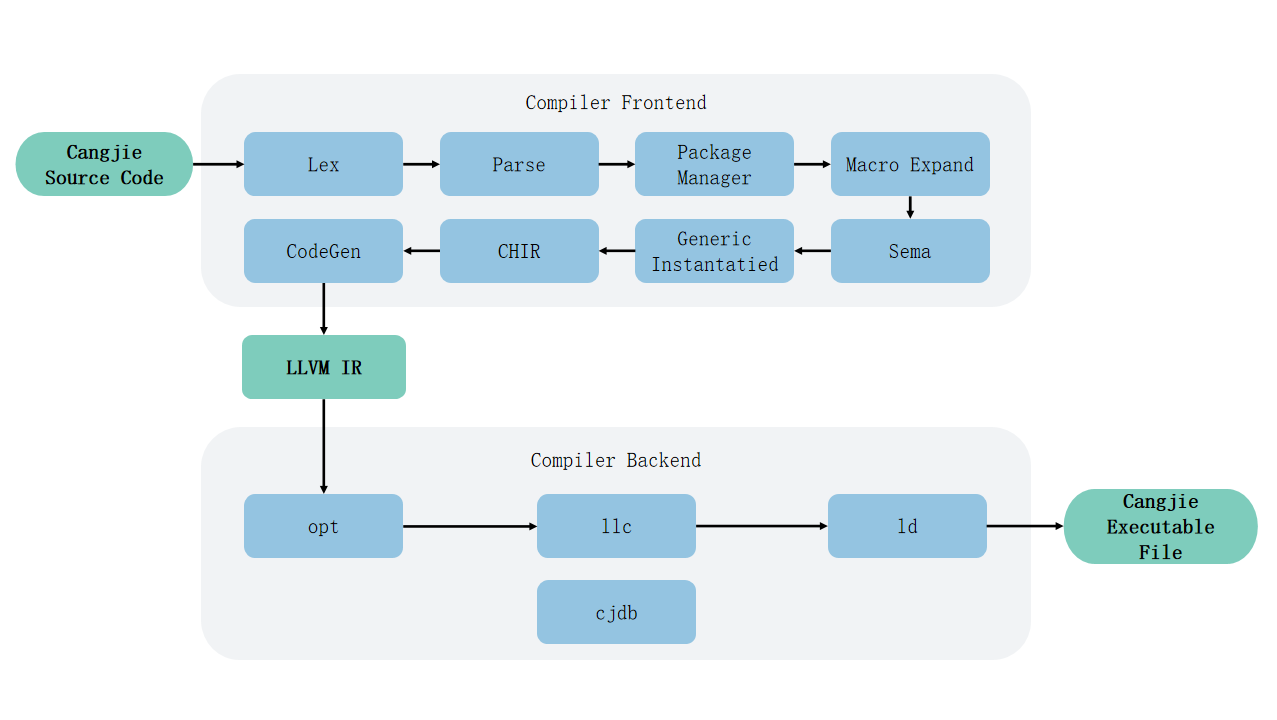
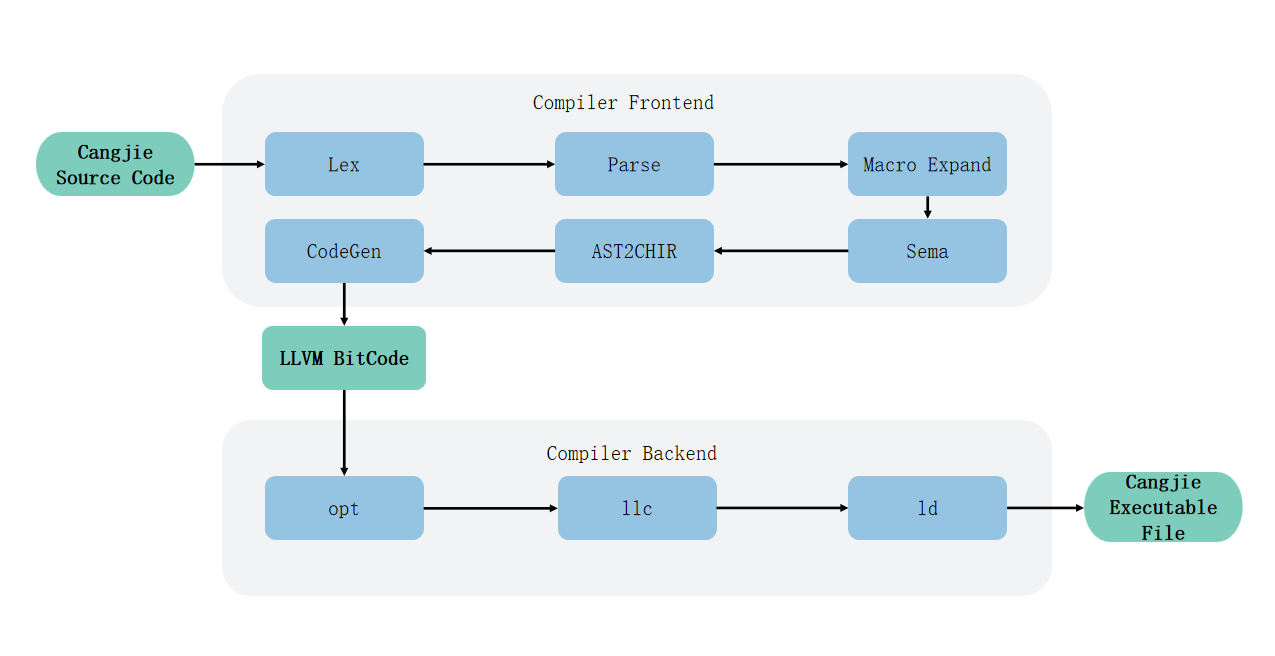
docs: add architecture comment

Changed region(s): [[0.0, 0.122, 1.0, 0.9146]]

diff --git a/README_zh.md b/README_zh.md
@@ -4,9 +4,33 @@
 
 仓颉编程语言是一种面向全场景应用开发的通用编程语言，可以兼顾开发效率和运行性能，并提供良好的编程体验。仓颉语言具有语法简明高效、多范式编程、类型安全等特点，了解更多仓颉语言的介绍，请参阅 [仓颉语言开发指南](https://cangjie-lang.cn/docs?url=%2F1.0.0%2Fuser_manual%2Fsource_zh_cn%2Ffirst_understanding%2Fbasic.html) 以及 [仓颉编程语言白皮书](https://cangjie-lang.cn/docs?url=%2F0.53.18%2Fwhite_paper%2Fsource_zh_cn%2Fcj-wp-abstract.html)。
 
-本仓提供了仓颉编译器源码及 cjdb 调试工具源码，仓颉编译器的整体框架及编译流程如下图展示：
+本仓提供了仓颉编译器源码，仓颉编译器的整体框架及编译流程如下图展示：
 
 ![架构图](figures/Compiler_Architecture_Diagram_zh.png)
+
+**架构图说明**
+
+- **编译器前端**：负责将仓颉源码从文本转换为中间表示，涵盖词法、语法、宏、语义等分析，确保代码结构和语义正确，为后端生成目标代码做好准备。
+
+    - **词法分析**将仓颉源码分解为有意义的记号，为后续语法分析做准备。
+
+    - **语法分析**根据仓颉语法规则，将记号序列构建为抽象语法树（AST），反映程序结构。
+
+    - **宏展开**处理代码中的宏定义和宏调用，实现代码生成和复用。
+
+    - **语义分析**对 AST 进行类型检查、作用域分析等，确保程序语义正确。
+
+    - **AST2CHIR**将 AST 转换为编译器中间层表示，便于优化和后端处理。
+
+    - **代码生成**将中间表示（CHIR）翻译为 LLVM IR，准备生成目标机器码（LLVM BitCode）。
+
+- **编译器后端**：基于 LLVM 开发实现，接收前端生成的中间表示，经过优化、生成目标平台机器码，并通过链接器整合为可执行文件。
+
+    - **Opt（优化器）**：对 LLVM IR 进行多种优化处理，如常量折叠、循环优化等，提高生成代码的执行效率和质量。
+
+    - **LLC（LLVM 静态编译器）**：将优化后的 LLVM IR 转换为目标平台的机器码，适配不同硬件架构。
+
+    - **LD（链接器）**：将多个目标文件和依赖库链接为最终的可执行文件，解决符号引用，生成可部署的程序产物。
 
 ## 目录结构
 
